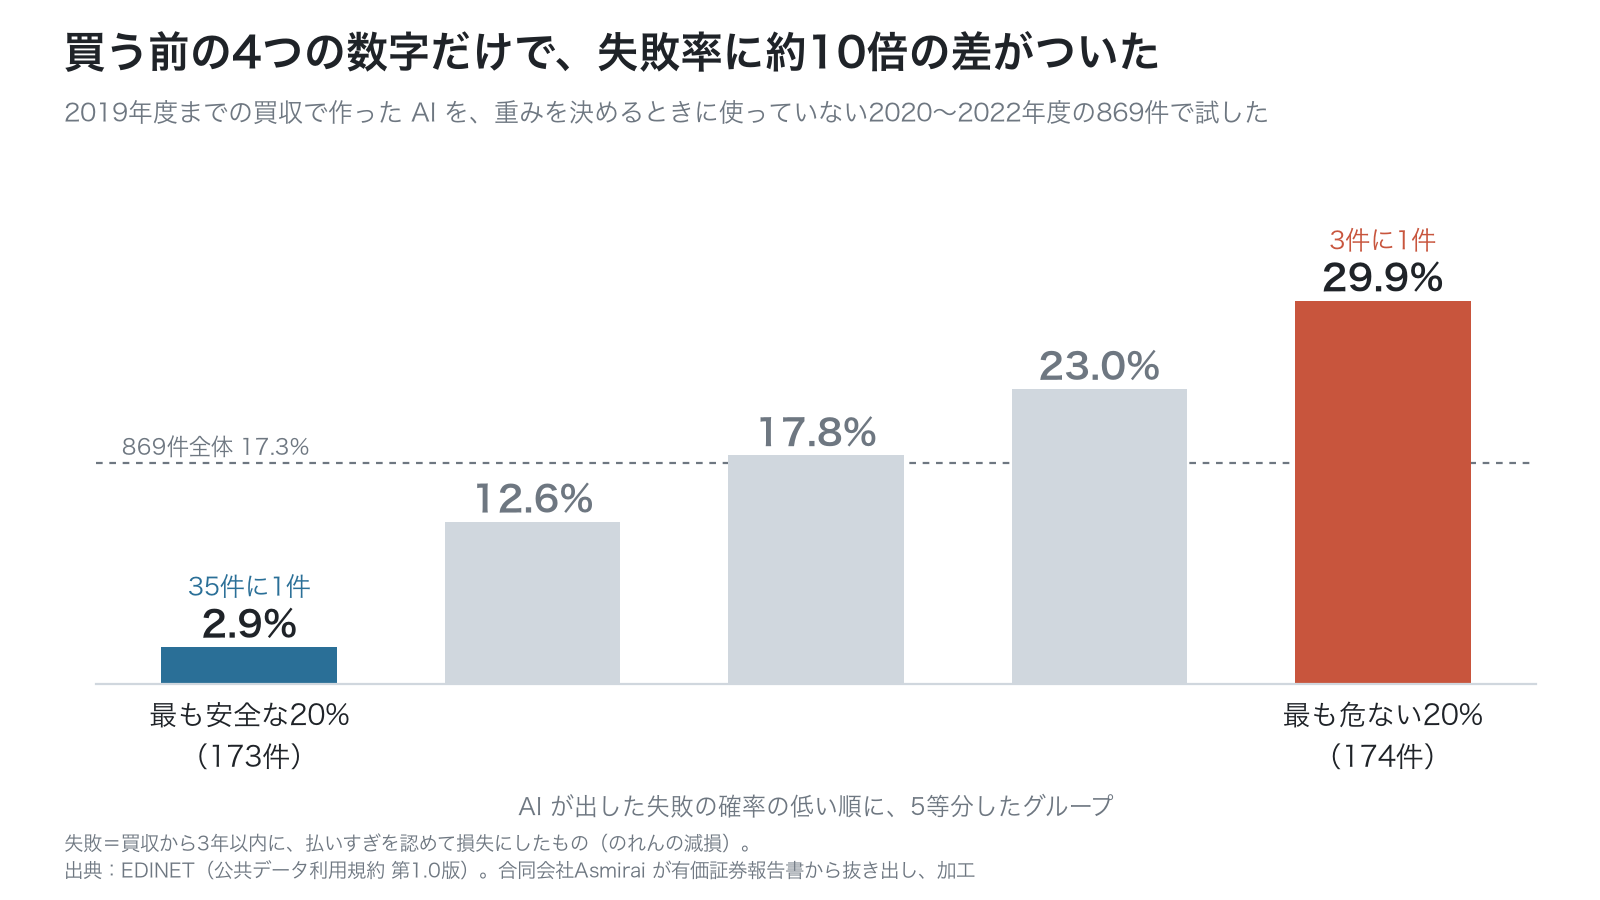
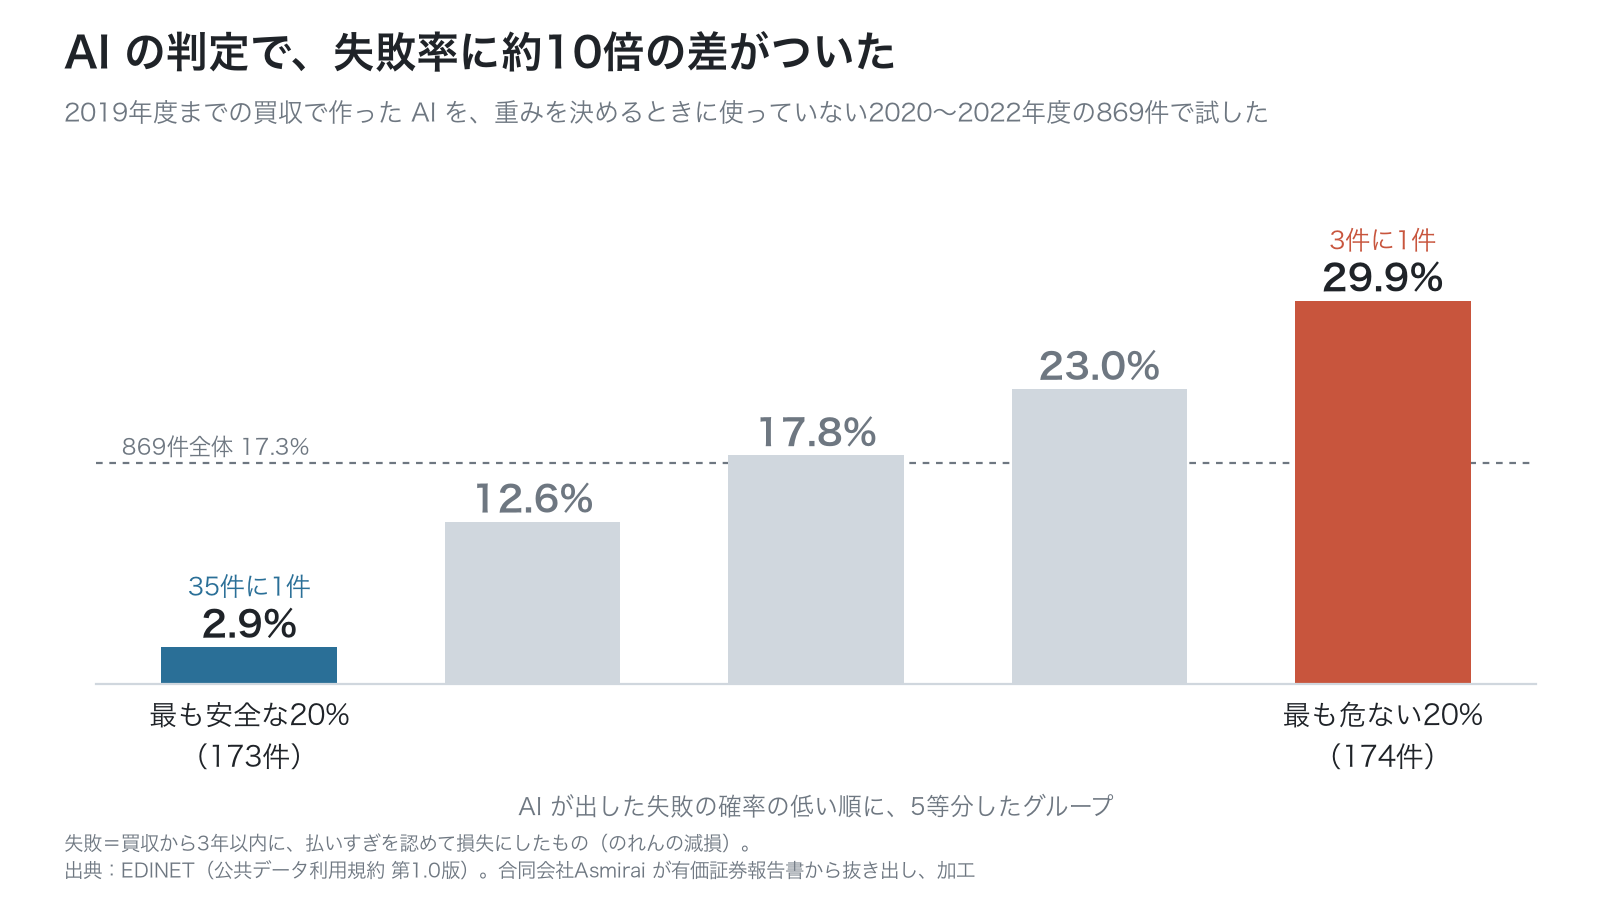
図1の題と予測の報告の見出しから、数の予告と「だけで」を除く
「買う前の4つの数字だけで」は、中身を言う前に数を予告して強調する言い回しで、冗長だと指摘された。図1を作り直し、同じ画像の og.png も差し替えた。

Changed region(s): [[0.0312, 0.0311, 0.7188, 0.0933]]

diff --git a/ledger/figures.py b/ledger/figures.py
@@ -108,7 +108,7 @@ def holdout_groups(deals: list[dict[str, Any]], path: Path) -> None:
     rates = [g["rate"] * 100 for g in groups]
     ratio = groups[-1]["rate"] / groups[0]["rate"]
     fig = _figure(
-        f"買う前の4つの数字だけで、失敗率に約{round(ratio)}倍の差がついた",
+        f"AI の判定で、失敗率に約{round(ratio)}倍の差がついた",
         f"{LAST_TRAIN_YEAR}年度までの買収で作った AI を、重みを決めるときに使っていない"
         f"{LAST_TRAIN_YEAR + 1}〜{LAST_BASE_YEAR}年度の{result['n']}件で試した",
         "失敗＝買収から3年以内に、払いすぎを認めて損失にしたもの（のれんの減損）。",

diff --git a/ledger/scorer.py b/ledger/scorer.py
@@ -281,7 +281,7 @@ def rank_candidates(model: Any, candidates: list[dict[str, Any]]) -> list[tuple[
 def build_report(result: dict[str, Any]) -> str:
     """holdout の結果を Markdown にする。"""
     lines = [
-        "# 4つの数字で、のれんの減損を当てる",
+        "# 上乗せ率・業種の関係・自己資本比率・大きさで、のれんの減損を当てる",
         "",
         f"- {LAST_TRAIN_YEAR}年度までの {result['train_n']} 件で学習し、"
         f"{LAST_TRAIN_YEAR + 1}年度以降の {result['n']} 件で確かめた",
